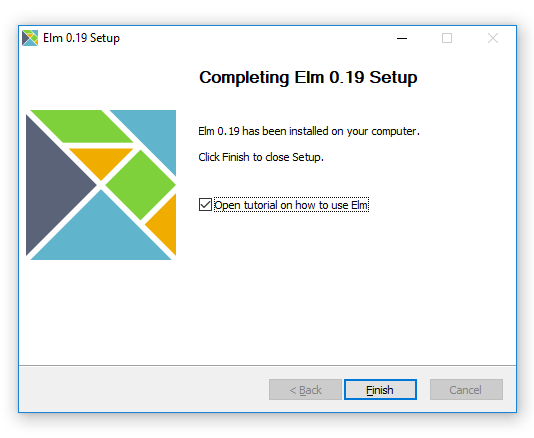
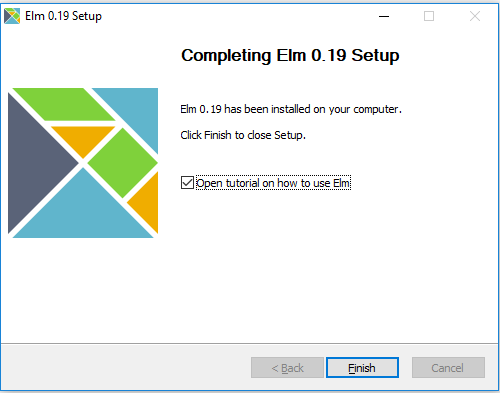
update image

diff --git a/03_EnvSetup/EnvSetup.md b/03_EnvSetup/EnvSetup.md
@@ -12,7 +12,7 @@ To install elm on windows we need to download the windows executable from [here]
 
 Double click the **installer-for-windows.exe** file ,the following window will appear.
 
-![]()
+![start](https://github.com/kannans89/ElmRepo/blob/master/images/01_Installation_step1.PNG?raw=true)
 
 Follow the simple steps and once the wizard completes installation you will see the completed screen as shown below
 
